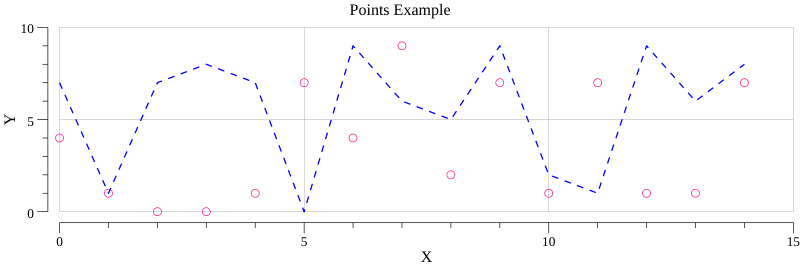
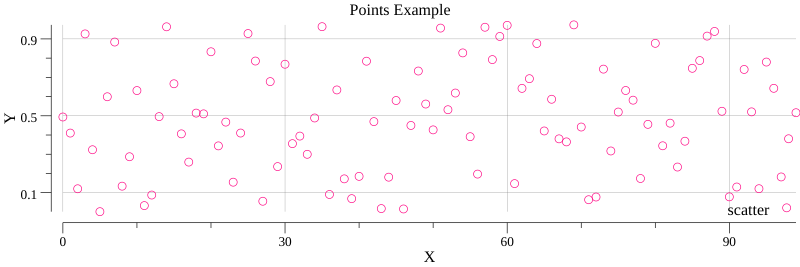
modified testdata

diff --git a/main.go b/main.go
@@ -116,12 +116,12 @@ func main() {
 		// }
 		for i := 0; i < n; i++ {
 			pts[i].X = float64(i)
-			pts[i].Y = float64(rnd.Intn(10))
+			pts[i].Y = float64(rnd.Float32())
 		}
 		return pts
 	}
 
-	n := 15
+	n := 100
 	scatterData := randomPoints(n)
 	// scatterData := plotter.XYs{
 	// 	{
@@ -164,11 +164,11 @@ func main() {
 	// lpPoints.Shape = draw.CircleGlyph{}
 	// lpPoints.Color = color.RGBA{R: 255, A: 255}
 
-	p.Add(s, l)
-	p.X.Max = float64(n)
-	p.Y.Max = 10
+	p.Add(s)
+	// p.X.Max = float64(n)
+	// p.Y.Max = 10
 
-	// p.Legend.Add("scatter", s)
+	p.Legend.Add("scatter", s)
 	// p.Legend.Add("line", l)
 	// p.Legend.Add("line points", lpLine, lpPoints)
 
